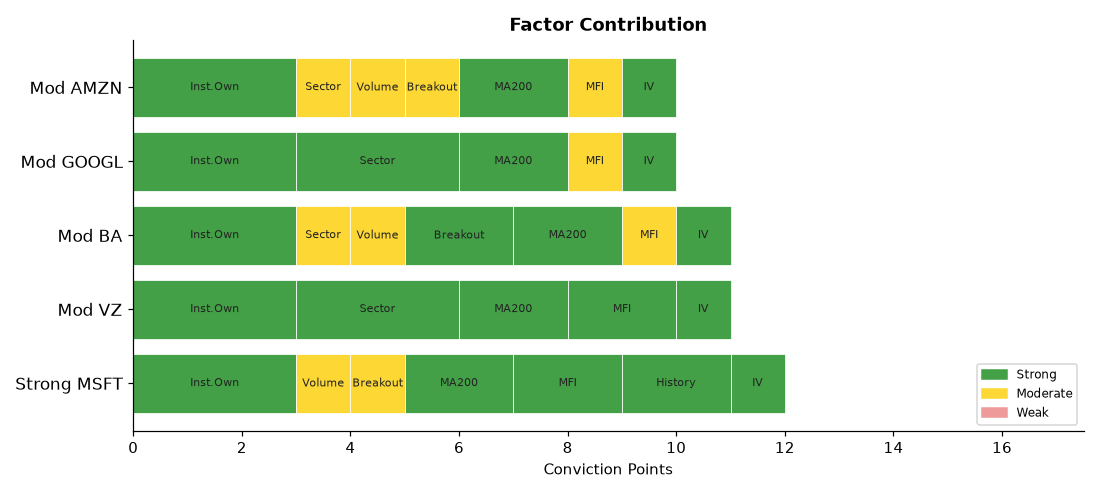
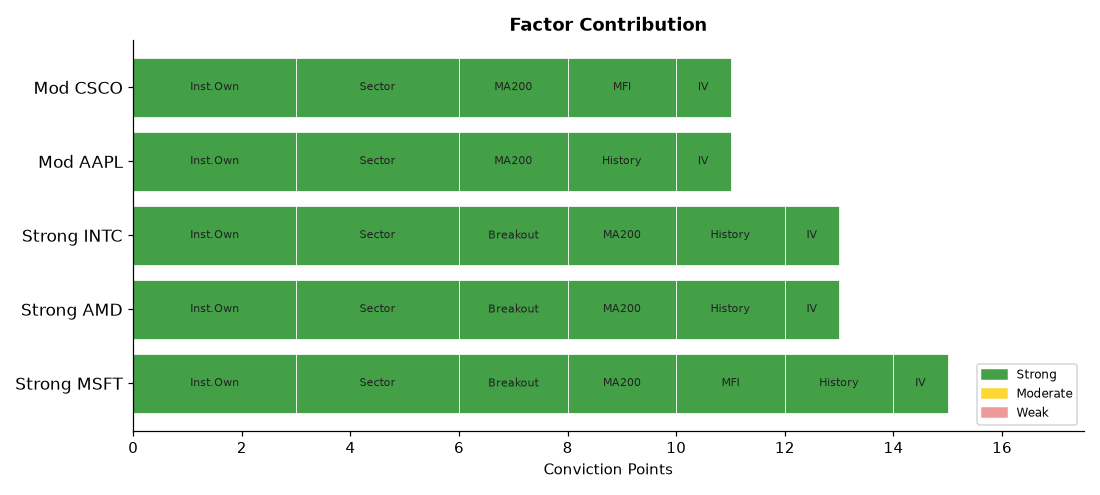
deploy: b7fadf5b06deb90e7ebb92f278722414bdd9750d

diff --git a/index.html b/index.html
@@ -4,7 +4,7 @@
   <meta charset="UTF-8">
   <meta name="viewport" content="width=device-width,initial-scale=1">
   <meta http-equiv="Cache-Control" content="no-cache,no-store,must-revalidate">
-  <title>Stock Breakout Screener — 2026-08-04 02:56</title>
+  <title>Stock Breakout Screener — 2026-08-04 15:22</title>
   <style>
     *{box-sizing:border-box;margin:0;padding:0}
     body{font-family:'Segoe UI',Arial,sans-serif;background:#f0f2f5;
@@ -34,20 +34,20 @@
 
 <div class="hdr">
   <h1>📈 Stock Breakout Screener</h1>
-  <p>Updated: 2026-08-04 02:56 UTC &nbsp;·&nbsp; Phase: Overnight &nbsp;·&nbsp;
+  <p>Updated: 2026-08-04 15:22 UTC &nbsp;·&nbsp; Phase: Regular Market Hours &nbsp;·&nbsp;
      129 stocks screened &nbsp;·&nbsp; Top 5 by conviction score</p>
 </div>
 
 <div class="card">
   <strong style="font-size:14px">Market Sentiment: 🐻 Bearish</strong>
   <div class="bar-wrap" style="margin-top:10px">
-    <div style="width:1%;background:#43a047"></div>
-    <div style="width:7%;background:#fdd835"></div>
+    <div style="width:2%;background:#43a047"></div>
+    <div style="width:6%;background:#fdd835"></div>
     <div style="width:92%;background:#e53935"></div>
   </div>
   <div style="font-size:12px;color:#555">
-    🟢 Strong 1% &nbsp;
-    🟡 Moderate 7% &nbsp;
+    🟢 Strong 2% &nbsp;
+    🟡 Moderate 6% &nbsp;
     🔴 Weak 92%
   </div>
 </div>
@@ -65,11 +65,45 @@
             <span style="margin-left:auto;background:#1a237e;color:#fff;
                          padding:3px 12px;border-radius:12px;
                          font-size:13px;font-weight:600">
-              12/17
+              15/17
             </span>
           </div>
           <ul style="margin:0;padding-left:18px;font-size:13px;
-                     color:#333;line-height:1.8"><li style="margin:5px 0"><span style="background:#fffde7;color:#f57f17;padding:2px 7px;border-radius:4px;font-size:11px;">⚠</span> Volume: <b>1.6× average</b> — Above-average activity</li><li style="margin:5px 0"><span style="background:#fffde7;color:#f57f17;padding:2px 7px;border-radius:4px;font-size:11px;">⚠</span> Candle: close <b>$487.65</b> vs open <b>$476.39</b> (+2.4%) — regular market close</li><li style="margin:5px 0"><span style="background:#e8f5e9;color:#2e7d32;padding:2px 7px;border-radius:4px;font-size:11px;">✅</span> 200-Day MA: price <b>$487.65</b> vs MA <b>$400.01</b> — <b>✅ Above</b> long-term trend</li><li style="margin:5px 0"><span style="background:#e8f5e9;color:#2e7d32;padding:2px 7px;border-radius:4px;font-size:11px;">✅</span> Inst. ownership: <b>75.8%</b> · MFI: <b>77.9</b> · Market cap: <b>$3621.1B</b></li><li style="margin:5px 0"><span style="background:#e8f5e9;color:#2e7d32;padding:2px 7px;border-radius:4px;font-size:11px;">✅</span> Last similar breakout: <b>Jul 30, 2026</b> → <b>+8.1%</b> over 10 trading days</li></ul>
+                     color:#333;line-height:1.8"><li style="margin:5px 0"><span style="background:#ffebee;color:#b71c1c;padding:2px 7px;border-radius:4px;font-size:11px;">❌</span> Volume: <b>0.5× average</b> — Above-average activity</li><li style="margin:5px 0"><span style="background:#e8f5e9;color:#2e7d32;padding:2px 7px;border-radius:4px;font-size:11px;">✅</span> Candle: close <b>$498.90</b> vs open <b>$480.76</b> (+3.8%) — regular market close</li><li style="margin:5px 0"><span style="background:#e8f5e9;color:#2e7d32;padding:2px 7px;border-radius:4px;font-size:11px;">✅</span> 200-Day MA: price <b>$498.90</b> vs MA <b>$400.80</b> — <b>✅ Above</b> long-term trend</li><li style="margin:5px 0"><span style="background:#e8f5e9;color:#2e7d32;padding:2px 7px;border-radius:4px;font-size:11px;">✅</span> Inst. ownership: <b>75.8%</b> · MFI: <b>77.7</b> · Market cap: <b>$3704.8B</b></li><li style="margin:5px 0"><span style="background:#e8f5e9;color:#2e7d32;padding:2px 7px;border-radius:4px;font-size:11px;">✅</span> Last similar breakout: <b>Jul 30, 2026</b> → <b>+10.6%</b> over 10 trading days</li></ul>
+        </div>
+        <div style="background:#fff;border:1px solid #ddd;border-radius:10px;
+                    padding:16px 20px;margin-bottom:12px;
+                    box-shadow:0 2px 6px rgba(0,0,0,.07)">
+          <div style="display:flex;align-items:center;gap:10px;
+                      flex-wrap:wrap;margin-bottom:10px">
+            <span style="font-size:22px">🟢</span>
+            <span style="font-size:19px;font-weight:700">2. AMD</span>
+            <span style="font-size:12px;color:#666">Technology</span>
+            <span style="margin-left:auto;background:#1a237e;color:#fff;
+                         padding:3px 12px;border-radius:12px;
+                         font-size:13px;font-weight:600">
+              13/17
+            </span>
+          </div>
+          <ul style="margin:0;padding-left:18px;font-size:13px;
+                     color:#333;line-height:1.8"><li style="margin:5px 0"><span style="background:#ffebee;color:#b71c1c;padding:2px 7px;border-radius:4px;font-size:11px;">❌</span> Volume: <b>0.4× average</b> — Above-average activity</li><li style="margin:5px 0"><span style="background:#e8f5e9;color:#2e7d32;padding:2px 7px;border-radius:4px;font-size:11px;">✅</span> Candle: close <b>$520.89</b> vs open <b>$504.24</b> (+3.3%) — regular market close</li><li style="margin:5px 0"><span style="background:#e8f5e9;color:#2e7d32;padding:2px 7px;border-radius:4px;font-size:11px;">✅</span> 200-Day MA: price <b>$520.89</b> vs MA <b>$365.54</b> — <b>✅ Above</b> long-term trend</li><li style="margin:5px 0"><span style="background:#e8f5e9;color:#2e7d32;padding:2px 7px;border-radius:4px;font-size:11px;">✅</span> Inst. ownership: <b>71.8%</b> · MFI: <b>40.4</b> · Market cap: <b>N/A</b></li><li style="margin:5px 0"><span style="background:#e8f5e9;color:#2e7d32;padding:2px 7px;border-radius:4px;font-size:11px;">✅</span> Last similar breakout: <b>Apr 24, 2026</b> → <b>+30.9%</b> over 10 trading days</li></ul>
+        </div>
+        <div style="background:#fff;border:1px solid #ddd;border-radius:10px;
+                    padding:16px 20px;margin-bottom:12px;
+                    box-shadow:0 2px 6px rgba(0,0,0,.07)">
+          <div style="display:flex;align-items:center;gap:10px;
+                      flex-wrap:wrap;margin-bottom:10px">
+            <span style="font-size:22px">🟢</span>
+            <span style="font-size:19px;font-weight:700">3. INTC</span>
+            <span style="font-size:12px;color:#666">Technology</span>
+            <span style="margin-left:auto;background:#1a237e;color:#fff;
+                         padding:3px 12px;border-radius:12px;
+                         font-size:13px;font-weight:600">
+              13/17
+            </span>
+          </div>
+          <ul style="margin:0;padding-left:18px;font-size:13px;
+                     color:#333;line-height:1.8"><li style="margin:5px 0"><span style="background:#ffebee;color:#b71c1c;padding:2px 7px;border-radius:4px;font-size:11px;">❌</span> Volume: <b>0.4× average</b> — Above-average activity</li><li style="margin:5px 0"><span style="background:#e8f5e9;color:#2e7d32;padding:2px 7px;border-radius:4px;font-size:11px;">✅</span> Candle: close <b>$99.67</b> vs open <b>$95.32</b> (+4.6%) — regular market close</li><li style="margin:5px 0"><span style="background:#e8f5e9;color:#2e7d32;padding:2px 7px;border-radius:4px;font-size:11px;">✅</span> 200-Day MA: price <b>$99.67</b> vs MA <b>$84.00</b> — <b>✅ Above</b> long-term trend</li><li style="margin:5px 0"><span style="background:#e8f5e9;color:#2e7d32;padding:2px 7px;border-radius:4px;font-size:11px;">✅</span> Inst. ownership: <b>63.9%</b> · MFI: <b>30.3</b> · Market cap: <b>$503.0B</b></li><li style="margin:5px 0"><span style="background:#e8f5e9;color:#2e7d32;padding:2px 7px;border-radius:4px;font-size:11px;">✅</span> Last similar breakout: <b>Apr 29, 2026</b> → <b>+27.0%</b> over 10 trading days</li></ul>
         </div>
         <div style="background:#fff;border:1px solid #ddd;border-radius:10px;
                     padding:16px 20px;margin-bottom:12px;
@@ -77,8 +111,8 @@
           <div style="display:flex;align-items:center;gap:10px;
                       flex-wrap:wrap;margin-bottom:10px">
             <span style="font-size:22px">🟡</span>
-            <span style="font-size:19px;font-weight:700">2. VZ</span>
-            <span style="font-size:12px;color:#666">Comm. Services</span>
+            <span style="font-size:19px;font-weight:700">4. AAPL</span>
+            <span style="font-size:12px;color:#666">Technology</span>
             <span style="margin-left:auto;background:#1a237e;color:#fff;
                          padding:3px 12px;border-radius:12px;
                          font-size:13px;font-weight:600">
@@ -86,7 +120,7 @@
             </span>
           </div>
           <ul style="margin:0;padding-left:18px;font-size:13px;
-                     color:#333;line-height:1.8"><li style="margin:5px 0"><span style="background:#ffebee;color:#b71c1c;padding:2px 7px;border-radius:4px;font-size:11px;">❌</span> Volume: <b>0.6× average</b> — Above-average activity</li><li style="margin:5px 0"><span style="background:#ffebee;color:#b71c1c;padding:2px 7px;border-radius:4px;font-size:11px;">❌</span> Candle: close <b>$47.36</b> vs open <b>$47.32</b> (+0.1%) — regular market close</li><li style="margin:5px 0"><span style="background:#e8f5e9;color:#2e7d32;padding:2px 7px;border-radius:4px;font-size:11px;">✅</span> 200-Day MA: price <b>$47.36</b> vs MA <b>$46.32</b> — <b>✅ Above</b> long-term trend</li><li style="margin:5px 0"><span style="background:#e8f5e9;color:#2e7d32;padding:2px 7px;border-radius:4px;font-size:11px;">✅</span> Inst. ownership: <b>70.7%</b> · MFI: <b>70.7</b> · Market cap: <b>$197.8B</b></li></ul>
+                     color:#333;line-height:1.8"><li style="margin:5px 0"><span style="background:#ffebee;color:#b71c1c;padding:2px 7px;border-radius:4px;font-size:11px;">❌</span> Volume: <b>0.4× average</b> — Above-average activity</li><li style="margin:5px 0"><span style="background:#ffebee;color:#b71c1c;padding:2px 7px;border-radius:4px;font-size:11px;">❌</span> Candle: close <b>$305.95</b> vs open <b>$302.73</b> (+1.1%) — regular market close</li><li style="margin:5px 0"><span style="background:#e8f5e9;color:#2e7d32;padding:2px 7px;border-radius:4px;font-size:11px;">✅</span> 200-Day MA: price <b>$305.95</b> vs MA <b>$284.80</b> — <b>✅ Above</b> long-term trend</li><li style="margin:5px 0"><span style="background:#e8f5e9;color:#2e7d32;padding:2px 7px;border-radius:4px;font-size:11px;">✅</span> Inst. ownership: <b>65.9%</b> · MFI: <b>42.3</b> · Market cap: <b>$4464.8B</b></li><li style="margin:5px 0"><span style="background:#e8f5e9;color:#2e7d32;padding:2px 7px;border-radius:4px;font-size:11px;">✅</span> Last similar breakout: <b>Jun 26, 2026</b> → <b>+11.8%</b> over 10 trading days</li></ul>
         </div>
         <div style="background:#fff;border:1px solid #ddd;border-radius:10px;
                     padding:16px 20px;margin-bottom:12px;
@@ -94,8 +128,8 @@
           <div style="display:flex;align-items:center;gap:10px;
                       flex-wrap:wrap;margin-bottom:10px">
             <span style="font-size:22px">🟡</span>
-            <span style="font-size:19px;font-weight:700">3. BA</span>
-            <span style="font-size:12px;color:#666">Industrials</span>
+            <span style="font-size:19px;font-weight:700">5. CSCO</span>
+            <span style="font-size:12px;color:#666">Technology</span>
             <span style="margin-left:auto;background:#1a237e;color:#fff;
                          padding:3px 12px;border-radius:12px;
                          font-size:13px;font-weight:600">
@@ -103,41 +137,7 @@
             </span>
           </div>
           <ul style="margin:0;padding-left:18px;font-size:13px;
-                     color:#333;line-height:1.8"><li style="margin:5px 0"><span style="background:#fffde7;color:#f57f17;padding:2px 7px;border-radius:4px;font-size:11px;">⚠</span> Volume: <b>1.5× average</b> — Above-average activity</li><li style="margin:5px 0"><span style="background:#e8f5e9;color:#2e7d32;padding:2px 7px;border-radius:4px;font-size:11px;">✅</span> Candle: close <b>$233.49</b> vs open <b>$221.00</b> (+5.7%) — regular market close</li><li style="margin:5px 0"><span style="background:#e8f5e9;color:#2e7d32;padding:2px 7px;border-radius:4px;font-size:11px;">✅</span> 200-Day MA: price <b>$233.49</b> vs MA <b>$221.25</b> — <b>✅ Above</b> long-term trend</li><li style="margin:5px 0"><span style="background:#e8f5e9;color:#2e7d32;padding:2px 7px;border-radius:4px;font-size:11px;">✅</span> Inst. ownership: <b>75.3%</b> · MFI: <b>55.6</b> · Market cap: <b>$184.5B</b></li></ul>
-        </div>
-        <div style="background:#fff;border:1px solid #ddd;border-radius:10px;
-                    padding:16px 20px;margin-bottom:12px;
-                    box-shadow:0 2px 6px rgba(0,0,0,.07)">
-          <div style="display:flex;align-items:center;gap:10px;
-                      flex-wrap:wrap;margin-bottom:10px">
-            <span style="font-size:22px">🟡</span>
-            <span style="font-size:19px;font-weight:700">4. GOOGL</span>
-            <span style="font-size:12px;color:#666">Comm. Services</span>
-            <span style="margin-left:auto;background:#1a237e;color:#fff;
-                         padding:3px 12px;border-radius:12px;
-                         font-size:13px;font-weight:600">
-              10/17
-            </span>
-          </div>
-          <ul style="margin:0;padding-left:18px;font-size:13px;
-                     color:#333;line-height:1.8"><li style="margin:5px 0"><span style="background:#ffebee;color:#b71c1c;padding:2px 7px;border-radius:4px;font-size:11px;">❌</span> Volume: <b>1.2× average</b> — Above-average activity</li><li style="margin:5px 0"><span style="background:#ffebee;color:#b71c1c;padding:2px 7px;border-radius:4px;font-size:11px;">❌</span> Candle: close <b>$373.51</b> vs open <b>$365.24</b> (+2.3%) — regular market close</li><li style="margin:5px 0"><span style="background:#e8f5e9;color:#2e7d32;padding:2px 7px;border-radius:4px;font-size:11px;">✅</span> 200-Day MA: price <b>$373.51</b> vs MA <b>$340.79</b> — <b>✅ Above</b> long-term trend</li><li style="margin:5px 0"><span style="background:#e8f5e9;color:#2e7d32;padding:2px 7px;border-radius:4px;font-size:11px;">✅</span> Inst. ownership: <b>80.3%</b> · MFI: <b>52.7</b> · Market cap: <b>$4568.0B</b></li></ul>
-        </div>
-        <div style="background:#fff;border:1px solid #ddd;border-radius:10px;
-                    padding:16px 20px;margin-bottom:12px;
-                    box-shadow:0 2px 6px rgba(0,0,0,.07)">
-          <div style="display:flex;align-items:center;gap:10px;
-                      flex-wrap:wrap;margin-bottom:10px">
-            <span style="font-size:22px">🟡</span>
-            <span style="font-size:19px;font-weight:700">5. AMZN</span>
-            <span style="font-size:12px;color:#666">Consumer Disc</span>
-            <span style="margin-left:auto;background:#1a237e;color:#fff;
-                         padding:3px 12px;border-radius:12px;
-                         font-size:13px;font-weight:600">
-              10/17
-            </span>
-          </div>
-          <ul style="margin:0;padding-left:18px;font-size:13px;
-                     color:#333;line-height:1.8"><li style="margin:5px 0"><span style="background:#fffde7;color:#f57f17;padding:2px 7px;border-radius:4px;font-size:11px;">⚠</span> Volume: <b>1.7× average</b> — Above-average activity</li><li style="margin:5px 0"><span style="background:#fffde7;color:#f57f17;padding:2px 7px;border-radius:4px;font-size:11px;">⚠</span> Candle: close <b>$284.02</b> vs open <b>$278.29</b> (+2.1%) — regular market close</li><li style="margin:5px 0"><span style="background:#e8f5e9;color:#2e7d32;padding:2px 7px;border-radius:4px;font-size:11px;">✅</span> 200-Day MA: price <b>$284.02</b> vs MA <b>$236.90</b> — <b>✅ Above</b> long-term trend</li><li style="margin:5px 0"><span style="background:#e8f5e9;color:#2e7d32;padding:2px 7px;border-radius:4px;font-size:11px;">✅</span> Inst. ownership: <b>67.8%</b> · MFI: <b>54.6</b> · Market cap: <b>$3055.2B</b></li></ul>
+                     color:#333;line-height:1.8"><li style="margin:5px 0"><span style="background:#ffebee;color:#b71c1c;padding:2px 7px;border-radius:4px;font-size:11px;">❌</span> Volume: <b>0.3× average</b> — Above-average activity</li><li style="margin:5px 0"><span style="background:#ffebee;color:#b71c1c;padding:2px 7px;border-radius:4px;font-size:11px;">❌</span> Candle: close <b>$120.21</b> vs open <b>$119.39</b> (+0.7%) — regular market close</li><li style="margin:5px 0"><span style="background:#e8f5e9;color:#2e7d32;padding:2px 7px;border-radius:4px;font-size:11px;">✅</span> 200-Day MA: price <b>$120.21</b> vs MA <b>$98.24</b> — <b>✅ Above</b> long-term trend</li><li style="margin:5px 0"><span style="background:#e8f5e9;color:#2e7d32;padding:2px 7px;border-radius:4px;font-size:11px;">✅</span> Inst. ownership: <b>83.1%</b> · MFI: <b>66.3</b> · Market cap: <b>$473.8B</b></li></ul>
         </div>
 
 
@@ -169,92 +169,92 @@
         <tr>
           <td style="font-weight:700;text-align:left;padding-left:10px">
             🟢 MSFT</td>
-          <td style="background:#fff9c4">1.6×</td>
-          <td style="background:#fff9c4">+2.4%</td>
+          <td style="background:#ffcdd2">0.5×</td>
+          <td style="background:#c8e6c9">+3.8%</td>
           <td style="background:#c8e6c9">
             ▲ Above</td>
           <td style="background:#c8e6c9">
             75.8%</td>
           <td style="background:#c8e6c9">
-            77.9</td>
-          <td style="background:#ffcdd2">Technology</td>
+            77.7</td>
+          <td style="background:#c8e6c9">Technology</td>
           <td style="background:#c8e6c9">
-            121.1%</td>
+            101.4%</td>
           <td style="background:#c8e6c9">
-            +8.1%</td>
-          <td style="font-weight:800;font-size:15px">12/17</td>
+            +10.6%</td>
+          <td style="font-weight:800;font-size:15px">15/17</td>
         </tr>
         <tr>
           <td style="font-weight:700;text-align:left;padding-left:10px">
-            🟡 VZ</td>
-          <td style="background:#ffcdd2">0.6×</td>
-          <td style="background:#ffcdd2">+0.1%</td>
+            🟢 AMD</td>
+          <td style="background:#ffcdd2">0.4×</td>
+          <td style="background:#c8e6c9">+3.3%</td>
           <td style="background:#c8e6c9">
             ▲ Above</td>
           <td style="background:#c8e6c9">
-            70.7%</td>
-          <td style="background:#c8e6c9">
-            70.7</td>
-          <td style="background:#c8e6c9">Comm. Services</td>
-          <td style="background:#c8e6c9">
-            98.7%</td>
+            71.8%</td>
           <td style="background:#ffcdd2">
-            N/A</td>
+            40.4</td>
+          <td style="background:#c8e6c9">Technology</td>
+          <td style="background:#c8e6c9">
+            113.2%</td>
+          <td style="background:#c8e6c9">
+            +30.9%</td>
+          <td style="font-weight:800;font-size:15px">13/17</td>
+        </tr>
+        <tr>
+          <td style="font-weight:700;text-align:left;padding-left:10px">
+            🟢 INTC</td>
+          <td style="background:#ffcdd2">0.4×</td>
+          <td style="background:#c8e6c9">+4.6%</td>
+          <td style="background:#c8e6c9">
+            ▲ Above</td>
+          <td style="background:#c8e6c9">
+            63.9%</td>
+          <td style="background:#ffcdd2">
+            30.3</td>
+          <td style="background:#c8e6c9">Technology</td>
+          <td style="background:#c8e6c9">
+            85.6%</td>
+          <td style="background:#c8e6c9">
+            +27.0%</td>
+          <td style="font-weight:800;font-size:15px">13/17</td>
+        </tr>
+        <tr>
+          <td style="font-weight:700;text-align:left;padding-left:10px">
+            🟡 AAPL</td>
+          <td style="background:#ffcdd2">0.4×</td>
+          <td style="background:#ffcdd2">+1.1%</td>
+          <td style="background:#c8e6c9">
+            ▲ Above</td>
+          <td style="background:#c8e6c9">
+            65.9%</td>
+          <td style="background:#ffcdd2">
+            42.3</td>
+          <td style="background:#c8e6c9">Technology</td>
+          <td style="background:#c8e6c9">
+            69.0%</td>
+          <td style="background:#c8e6c9">
+            +11.8%</td>
           <td style="font-weight:800;font-size:15px">11/17</td>
         </tr>
         <tr>
           <td style="font-weight:700;text-align:left;padding-left:10px">
-            🟡 BA</td>
-          <td style="background:#fff9c4">1.5×</td>
-          <td style="background:#c8e6c9">+5.7%</td>
+            🟡 CSCO</td>
+          <td style="background:#ffcdd2">0.3×</td>
+          <td style="background:#ffcdd2">+0.7%</td>
           <td style="background:#c8e6c9">
             ▲ Above</td>
           <td style="background:#c8e6c9">
-            75.3%</td>
-          <td style="background:#fff9c4">
-            55.6</td>
-          <td style="background:#fff9c4">Industrials</td>
+            83.1%</td>
           <td style="background:#c8e6c9">
-            87.5%</td>
+            66.3</td>
+          <td style="background:#c8e6c9">Technology</td>
+          <td style="background:#c8e6c9">
+            65.5%</td>
           <td style="background:#ffcdd2">
             N/A</td>
           <td style="font-weight:800;font-size:15px">11/17</td>
-        </tr>
-        <tr>
-          <td style="font-weight:700;text-align:left;padding-left:10px">
-            🟡 GOOGL</td>
-          <td style="background:#ffcdd2">1.2×</td>
-          <td style="background:#ffcdd2">+2.3%</td>
-          <td style="background:#c8e6c9">
-            ▲ Above</td>
-          <td style="background:#c8e6c9">
-            80.3%</td>
-          <td style="background:#fff9c4">
-            52.7</td>
-          <td style="background:#c8e6c9">Comm. Services</td>
-          <td style="background:#c8e6c9">
-            88.9%</td>
-          <td style="background:#ffcdd2">
-            N/A</td>
-          <td style="font-weight:800;font-size:15px">10/17</td>
-        </tr>
-        <tr>
-          <td style="font-weight:700;text-align:left;padding-left:10px">
-            🟡 AMZN</td>
-          <td style="background:#fff9c4">1.7×</td>
-          <td style="background:#fff9c4">+2.1%</td>
-          <td style="background:#c8e6c9">
-            ▲ Above</td>
-          <td style="background:#c8e6c9">
-            67.8%</td>
-          <td style="background:#fff9c4">
-            54.6</td>
-          <td style="background:#fff9c4">Consumer Disc</td>
-          <td style="background:#c8e6c9">
-            133.4%</td>
-          <td style="background:#ffcdd2">
-            N/A</td>
-          <td style="font-weight:800;font-size:15px">10/17</td>
         </tr>
 </table>
 </div>
@@ -277,58 +277,58 @@
       
         <tr>
           <td style="text-align:left;padding-left:10px;font-weight:600">
-            #1 Comm. Services</td>
-          <td style="background:#e8f5e9;color:#2e7d32;font-weight:700">+2.86%</td>
+            #1 Technology</td>
+          <td style="background:#e8f5e9;color:#2e7d32;font-weight:700">+4.26%</td>
         </tr>
         <tr>
           <td style="text-align:left;padding-left:10px;font-weight:600">
-            #2 Industrials</td>
-          <td style="background:#e8f5e9;color:#2e7d32;font-weight:700">+1.85%</td>
+            #2 Materials</td>
+          <td style="background:#e8f5e9;color:#2e7d32;font-weight:700">+1.00%</td>
         </tr>
         <tr>
           <td style="text-align:left;padding-left:10px;font-weight:600">
-            #3 Consumer Disc</td>
-          <td style="background:#e8f5e9;color:#2e7d32;font-weight:700">+1.83%</td>
+            #3 Financials</td>
+          <td style="background:#e8f5e9;color:#2e7d32;font-weight:700">+0.88%</td>
         </tr>
         <tr>
           <td style="text-align:left;padding-left:10px;font-weight:600">
-            #4 Technology</td>
-          <td style="background:#e8f5e9;color:#2e7d32;font-weight:700">+1.53%</td>
+            #4 Industrials</td>
+          <td style="background:#e8f5e9;color:#2e7d32;font-weight:700">+0.82%</td>
         </tr>
         <tr>
           <td style="text-align:left;padding-left:10px;font-weight:600">
-            #5 Materials</td>
-          <td style="background:#e8f5e9;color:#2e7d32;font-weight:700">+1.15%</td>
+            #5 Consumer Disc</td>
+          <td style="background:#ffebee;color:#c62828;font-weight:700">-0.25%</td>
         </tr>
         <tr>
           <td style="text-align:left;padding-left:10px;font-weight:600">
-            #6 Financials</td>
-          <td style="background:#e8f5e9;color:#2e7d32;font-weight:700">+0.77%</td>
+            #6 Comm. Services</td>
+          <td style="background:#ffebee;color:#c62828;font-weight:700">-0.28%</td>
         </tr>
         <tr>
           <td style="text-align:left;padding-left:10px;font-weight:600">
-            #7 Real Estate</td>
-          <td style="background:#e8f5e9;color:#2e7d32;font-weight:700">+0.24%</td>
+            #7 Consumer Stpl</td>
+          <td style="background:#ffebee;color:#c62828;font-weight:700">-0.35%</td>
         </tr>
         <tr>
           <td style="text-align:left;padding-left:10px;font-weight:600">
-            #8 Utilities</td>
-          <td style="background:#e8f5e9;color:#2e7d32;font-weight:700">+0.02%</td>
+            #8 Real Estate</td>
+          <td style="background:#ffebee;color:#c62828;font-weight:700">-0.49%</td>
         </tr>
         <tr>
           <td style="text-align:left;padding-left:10px;font-weight:600">
             #9 Healthcare</td>
-          <td style="background:#ffebee;color:#c62828;font-weight:700">-0.19%</td>
+          <td style="background:#ffebee;color:#c62828;font-weight:700">-0.54%</td>
         </tr>
         <tr>
           <td style="text-align:left;padding-left:10px;font-weight:600">
-            #10 Consumer Stpl</td>
-          <td style="background:#ffebee;color:#c62828;font-weight:700">-0.22%</td>
+            #10 Energy</td>
+          <td style="background:#ffebee;color:#c62828;font-weight:700">-0.66%</td>
         </tr>
         <tr>
           <td style="text-align:left;padding-left:10px;font-weight:600">
-            #11 Energy</td>
-          <td style="background:#ffebee;color:#c62828;font-weight:700">-1.28%</td>
+            #11 Utilities</td>
+          <td style="background:#ffebee;color:#c62828;font-weight:700">-0.85%</td>
         </tr>
     </table>
   </div>
@@ -367,7 +367,7 @@
         <li><b>Scoring weights:</b>
             Inst.Own(3) · Sector(3) · Volume(2) · Breakout(2) ·
             MA200(2) · MFI(2) · History(2) · IV(1) = 17pts max</li>
-        <li><b>Run time:</b> 2026-08-04 02:56 UTC — Market phase: Overnight</li>
+        <li><b>Run time:</b> 2026-08-04 15:22 UTC — Market phase: Regular Market Hours</li>
       </ul>
     </div>
 
